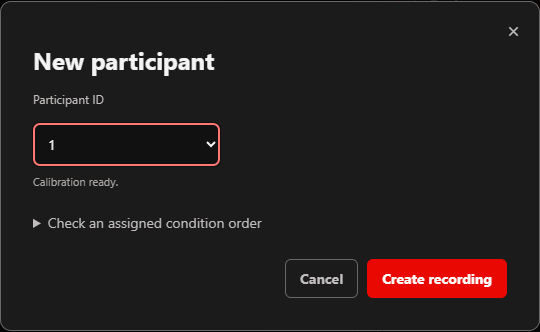
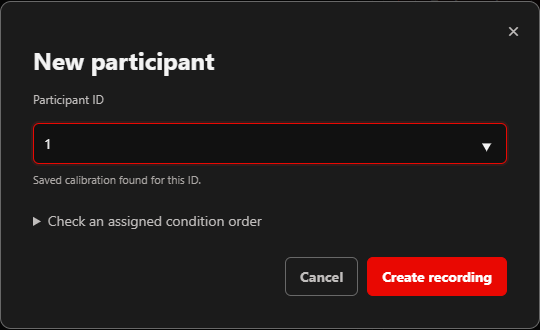
Start a participant with any numeric ID
The New participant dialog listed only IDs that had a calibration saved in
the Calibration Environment, and intake refused every other ID. On a station
with no saved profiles no session could start.

The ID is now typed (digits only, 0-999999; a partly numeric entry is still
refused). A saved calibration is optional: it is applied when present, and
otherwise the staged station settings apply and a session note says so. An
unreadable saved file no longer blocks intake either. Saved IDs remain as
suggestions in the field.

diff --git a/unity/Assets/StreamingAssets/administrator/app.js b/unity/Assets/StreamingAssets/administrator/app.js
@@ -274,7 +274,7 @@
     if (!raw) return { valid: true, message: 'Paste the ID and four condition codes from the assignment sheet.' };
     const [id, ...assignedOrder] = raw.toUpperCase().split(/[\s,;]+/);
     if (!/^[0-9]{1,6}$/.test(id) || String(Number(id)) !== participant)
-      return { valid: false, message: 'The row must start with the selected participant ID.' };
+      return { valid: false, message: 'The row must start with the participant ID entered above.' };
     if (assignedOrder.length !== 4 || new Set(assignedOrder).size !== 4 ||
         !assignedOrder.every(code => conditions.includes(code)))
       return { valid: false, message: 'Include each of the four condition codes once.' };
@@ -285,36 +285,42 @@
         : 'Assignment matches Settings.' };
   }
   let pickerSignature = '';
+  // The typed ID with leading zeros dropped, or '' unless it is 1–6 digits. A
+  // partly numeric entry such as "12x" is refused, never trimmed to a number.
+  function participantId() {
+    const typed = $('participantPicker').value.trim();
+    return /^[0-9]{1,6}$/.test(typed) ? String(Number(typed)) : '';
+  }
+  // Any whole number starts a recording. IDs saved in the Calibration Environment
+  // are offered as suggestions; a saved calibration is optional, never required.
   function updateCalibrationLookup() {
-    const picker = $('participantPicker');
     const profiles = state?.participantCalibrations || [];
     const signature = JSON.stringify(profiles);
     if (signature !== pickerSignature) {
-      const selected = picker.value;
-      picker.replaceChildren(new Option('Choose a participant ID', ''));
-      for (const profile of profiles) picker.add(new Option(String(profile.id), String(profile.id)));
-      picker.value = profiles.some(profile => String(profile.id) === selected) ? selected : '';
+      $('savedParticipantIds').replaceChildren(...profiles.map(profile => new Option(String(profile.id), String(profile.id))));
       pickerSignature = signature;
     }
-    const profile = profiles.find(entry => String(entry.id) === picker.value);
-    const available = !!profile && profile.available !== false && !state.calibrationDirectoryUnavailable;
-    $('calibrationStatus').textContent = state?.calibrationDirectoryUnavailable
-      ? 'The calibration folder could not be read. Check access and try again.'
-      : profiles.length === 0 ? 'No saved IDs. Save an ID in the calibration workspace or run PREPARE-REHEARSAL.cmd in the development package.'
-      : !profile ? 'Select the ID saved in the Calibration Environment.'
-      : !available ? 'This calibration cannot be read. Choose another ID or review the saved profile in the calibration workspace.'
+    const typed = $('participantPicker').value.trim(), id = participantId();
+    const folderUnavailable = !!state?.calibrationDirectoryUnavailable;
+    const profile = id ? profiles.find(entry => String(entry.id) === id) : undefined;
+    const available = !!profile && profile.available !== false && !folderUnavailable;
+    $('calibrationStatus').textContent = !typed ? 'Type the participant ID: a whole number from 0 to 999999.'
+      : !id ? 'Use digits only: a whole number from 0 to 999999.'
+      : folderUnavailable ? 'The saved calibration folder could not be read. The station settings will be used.'
+      : !profile ? 'No saved calibration is needed. The station settings will be used.'
+      : !available ? 'The saved calibration for this ID cannot be read. The station settings will be used instead.'
       : profile.screenMatches === false ? 'This ID was saved with different screen settings. The station screen will be used.'
-      : 'Calibration ready.';
-    $('calibrationStatus').classList.toggle('is-missing', !!state?.calibrationDirectoryUnavailable || (!!profile && !available));
+      : 'Saved calibration found for this ID.';
+    $('calibrationStatus').classList.toggle('is-missing', !!typed && (!id || folderUnavailable || (!!profile && !available)));
     $('profileSources').hidden = !available || !profile.revision;
     if (!$('profileSources').hidden) {
       const room = (state.roomRevision || 'Unavailable').replace(/^synthetic-room-([0-9a-f]{12})[0-9a-f]+$/, 'Station room $1');
       $('sourceRevisions').textContent = `participant-${profile.id}.json · revision ${profile.revision.slice(0, 12)}. Room revision · ${room}.`;
     }
-    const checked = readAssignment(picker.value);
+    const checked = readAssignment(id);
     $('assignmentStatus').textContent = checked.message;
     $('deviationField').hidden = !checked.differs;
-    $('createParticipant').disabled = submitting || !available || !checked.valid || state?.canStartParticipant !== true;
+    $('createParticipant').disabled = submitting || !id || !checked.valid || state?.canStartParticipant !== true;
   }
   function openDialog() {
     renderOrder();
@@ -379,7 +385,7 @@
   $('cancelDialog').addEventListener('click', closeDialog);
   $('assignedRow').addEventListener('input', () => { $('deviationReason').value = ''; updateCalibrationLookup(); });
   $('deviationReason').addEventListener('change', updateCalibrationLookup);
-  $('participantPicker').addEventListener('change', () => {
+  $('participantPicker').addEventListener('input', () => {
     $('deviationReason').value = '';
     $('startError').hidden = true;
     updateCalibrationLookup();
@@ -388,7 +394,7 @@
     event.preventDefault();
     updateCalibrationLookup();
     if ($('createParticipant').disabled) return;
-    const participant = $('participantPicker').value;
+    const participant = participantId();
     submitting = true;
     $('createParticipant').disabled = true;
     try {

diff --git a/unity/Assets/StreamingAssets/administrator/index.html b/unity/Assets/StreamingAssets/administrator/index.html
@@ -92,7 +92,8 @@
       <button type="button" class="close-btn" id="closeDialog" aria-label="Close participant entry">×</button>
       <h2 id="intakeTitle">New participant</h2>
       <label class="field-label" for="participantPicker">Participant ID</label>
-      <select id="participantPicker" required aria-describedby="calibrationStatus"><option value="">Choose a participant ID</option></select>
+      <input id="participantPicker" inputmode="numeric" autocomplete="off" maxlength="6" placeholder="Whole number, for example 12" list="savedParticipantIds" required aria-describedby="calibrationStatus">
+      <datalist id="savedParticipantIds"></datalist>
       <p id="calibrationStatus" class="subtle calibration-status" role="status"></p>
       <details id="profileSources" hidden><summary>Calibration sources</summary><p id="sourceRevisions" class="subtle"></p></details>
       <details id="assignmentCheck">

diff --git a/unity/Assets/ELTS/Operator/Tests/AdministratorStationTests.cs b/unity/Assets/ELTS/Operator/Tests/AdministratorStationTests.cs
@@ -153,9 +153,10 @@ namespace Elts.Operator.Tests
                 Assert.Throws<ArgumentOutOfRangeException>(()=>station.ApplyCommand(new JObject{["action"]="setActiveTargetCount",["count"]=31}));
                 station.ApplyCommand(new JObject{["action"]="setActiveTargetCount",["count"]=botLimit});
                 Assert.That((int)JObject.Parse(station.StateJson())["activeTargetCount"],Is.EqualTo(botLimit));
-                // Participant IDs are numeric and require a saved calibration; nothing starts otherwise.
+                // Participant IDs are numeric; nothing starts otherwise. A partly numeric ID is never trimmed to a number.
                 Assert.Throws<ArgumentException>(()=>station.ApplyCommand(new JObject{["action"]="startParticipant",["participant"]="station-test",["conditionOrder"]=order}));
-                Assert.Throws<FileNotFoundException>(()=>station.ApplyCommand(new JObject{["action"]="startParticipant",["participant"]="4199",["conditionOrder"]=order}));
+                Assert.Throws<ArgumentException>(()=>station.ApplyCommand(new JObject{["action"]="startParticipant",["participant"]="12x",["conditionOrder"]=order}));
+                Assert.Throws<ArgumentException>(()=>station.ApplyCommand(new JObject{["action"]="startParticipant",["participant"]="",["conditionOrder"]=order}));
                 Assert.That(session.Engine,Is.Null);
                 ParticipantCalibrationFixture.Save(session,4102,"Synthetic Test Alias",eye:new[]{0.01,-0.02,-0.09});
                 var saved=ParticipantCalibration.Load(session.CalibrationProfileDirectory,4102);
@@ -261,6 +262,43 @@ namespace Elts.Operator.Tests
                 var state=JObject.Parse(station.StateJson());Assert.That(state["blocks"].Count(),Is.EqualTo(4));
                 Assert.That(state["blocks"].All(row=>(string)row["status"]=="Completed"),Is.True);
                 File.WriteAllText(Path.GetFullPath(Path.Combine(Application.dataPath,"../../diagnostics/station-pipeline-run.txt")),run);
+            }
+            finally{UnityEngine.Object.DestroyImmediate(host);}
+        }
+
+        [UnityTest]
+        public IEnumerator ParticipantStartsWithoutAUsableSavedCalibration()
+        {
+            var host=new GameObject("Optional profile intake fixture");
+            var view=host.AddComponent<DevelopmentView>();var session=host.AddComponent<DevelopmentSessionPanel>();
+            var clock=new ManualSharedClock(DateTimeOffset.UtcNow);
+            typeof(DevelopmentSessionPanel).GetField("clock",BindingFlags.NonPublic|BindingFlags.Instance).SetValue(session,clock);
+            var station=host.AddComponent<DevelopmentTestStation>();station.OpenAdministratorAutomatically=false;station.Controls=new Input();
+            try
+            {
+                for(int i=0;i<5;i++)yield return null;
+                string stagedCalibration=view.Configuration.Rig.CalibrationId;
+                var stagedEye=view.Configuration.Rig.HeadEyeOffsetM;
+                Directory.CreateDirectory(session.CalibrationProfileDirectory);
+                // 4198 has nothing saved; 4197 has a file that is not a calibration.
+                File.Delete(Path.Combine(session.CalibrationProfileDirectory,ParticipantCalibration.FileNameFor(4198)));
+                File.WriteAllText(Path.Combine(session.CalibrationProfileDirectory,ParticipantCalibration.FileNameFor(4197)),"{ not a calibration");
+                foreach(var (id,note) in new[]{("4198","no saved profile for this ID"),("4197","could not be read")})
+                {
+                    float limit=Time.realtimeSinceStartup+30;
+                    while(!session.StationCanStartParticipant && Time.realtimeSinceStartup<limit)yield return null;
+                    station.ApplyCommand(new JObject{["action"]="startParticipant",["participant"]=id});
+                    Assert.That(session.StationParticipant,Is.EqualTo(id));
+                    Assert.That(view.Configuration.Rig.CalibrationId,Is.EqualTo(stagedCalibration),"Station settings apply without a usable profile");
+                    Assert.That(view.Configuration.Rig.HeadEyeOffsetM,Is.EqualTo(stagedEye));
+                    while(session.Engine?.State!=SessionState.Calibration && Time.realtimeSinceStartup<limit)
+                    {clock.Advance(TimeSpan.FromSeconds(.1));yield return null;}
+                    Assert.That(session.Engine?.State,Is.EqualTo(SessionState.Calibration),session.StationMessage);
+                    string run=session.StationRecordingPath;
+                    session.StationAbort();yield return null;
+                    yield return WaitForSave(session);
+                    Assert.That(File.ReadAllText(Path.Combine(run,"events.ndjson")),Does.Contain(note),"The recording says which calibration applied");
+                }
             }
             finally{UnityEngine.Object.DestroyImmediate(host);}
         }

diff --git a/unity/Assets/ELTS/Operator/DevelopmentStationSession.cs b/unity/Assets/ELTS/Operator/DevelopmentStationSession.cs
@@ -26,6 +26,11 @@ namespace Elts.Operator
         private bool stationScreenDiffers;
         private const string ScreenDiffersMessage="The saved screen measurements differ from this ELTS build; " +
             "the build's screen is used. Restart START-ELTS to apply the latest saved screen.";
+        /// <summary>Why a saved profile for this ID was not used; empty when none is saved or it was applied.</summary>
+        private string stationCalibrationProblem = "";
+        // Session notes are limited to 256 characters; keep these short.
+        private const string NoProfileMessage="Calibration: no saved profile for this ID; station settings used.";
+        private const string UnreadableProfileMessage="Calibration: the saved profile for this ID could not be read; station settings used.";
         // One visit spans the first recording and every repeat or continuation folder.
         private string stationVisitId = "";
         private double stationStartedAt;
@@ -128,9 +133,11 @@ namespace Elts.Operator
         }
 
         /// <summary>
-        /// Starts a participant by numeric ID and applies the calibration saved for
-        /// that ID in the Calibration Environment. Nothing changes if the ID is not
-        /// numeric or no valid calibration is saved for it.
+        /// Starts a participant by numeric ID. Any whole number is accepted; nothing
+        /// changes if the ID is not numeric. A calibration saved for that ID in the
+        /// Calibration Environment is optional: when one is saved and readable its
+        /// offsets apply, otherwise the staged station offsets apply and the
+        /// walkthrough calibrates the participant. The recording says which.
         /// </summary>
         public void StationStartParticipant(string participant, IEnumerable<string> order, string? assignedId = null, string[]? assignment = null, string deviation = "")
         {
@@ -150,10 +157,13 @@ namespace Elts.Operator
                     throw new ArgumentException("Review the assignment and choose a reason for a different order.");
             }
             else if (assignedId != null || deviation.Length > 0) throw new ArgumentException("Assignment row is incomplete.");
-            var calibration=ParticipantCalibration.Load(CalibrationProfileDirectory,id);
-            stationScreenDiffers=!calibration.ScreenMatches(view.Configuration.Rig);
-            view.ApplyParticipantCalibration(calibration);
+            var calibration=ParticipantCalibration.LoadIfSaved(CalibrationProfileDirectory,id,out string profileProblem);
+            // Without a saved profile the previous participant's offsets must not carry over.
+            view.ClearParticipantCalibration();
+            stationScreenDiffers=calibration!=null && !calibration.ScreenMatches(view.Configuration.Rig);
+            if(calibration!=null)view.ApplyParticipantCalibration(calibration);
             stationCalibration=calibration;
+            stationCalibrationProblem=profileProblem;
             // Live tracking starts every participant from the station fit, not the last shooter's zero.
             ResetLiveForParticipant();
             assignedOrder=assignment?.ToArray(); orderDeviation=deviation;
@@ -186,10 +196,13 @@ namespace Elts.Operator
                         if(stationCalibration!=null)
                             RecordSessionDetail("Calibration: "+stationCalibration.FileName+" · SHA-256 "+stationCalibration.Sha256+
                                 " · synthetic, not measured.");
+                        else
+                            RecordSessionDetail(stationCalibrationProblem.Length>0 ? UnreadableProfileMessage : NoProfileMessage);
                         if(stationScreenDiffers)RecordSessionDetail(ScreenDiffersMessage);
                         AdvanceWithCalibration();
                         stationPreparing=false;
-                        lastMessage="Participant ready. Begin the tutorial / walkthrough."+(stationScreenDiffers?" "+ScreenDiffersMessage:"");
+                        lastMessage="Participant ready. Begin the tutorial / walkthrough."+(stationScreenDiffers?" "+ScreenDiffersMessage:"")+
+                            (stationCalibrationProblem.Length>0?" "+UnreadableProfileMessage:"");
                     }
                     if(engine?.State==SessionState.BlockReady)
                     { stationPreparing=false;lastMessage="Ready. Arm the test when the participant is ready."; }

diff --git a/unity/Assets/ELTS/Config/ParticipantCalibration.cs b/unity/Assets/ELTS/Config/ParticipantCalibration.cs
@@ -80,7 +80,21 @@ namespace Elts.Config
             return Parse(File.ReadAllBytes(path), id);
         }
 
-        /// <summary>Cache file validation for the picker. Intake always reloads the chosen file.</summary>
+        /// <summary>
+        /// A saved profile is optional at intake. Returns null when none is saved for
+        /// this ID (<paramref name="problem"/> is empty) or when the saved file cannot
+        /// be used (<paramref name="problem"/> says why, for the recording).
+        /// </summary>
+        public static ParticipantCalibration? LoadIfSaved(string directory, int id, out string problem)
+        {
+            problem = "";
+            if (!File.Exists(Path.Combine(directory, FileNameFor(id)))) return null;
+            try { return Load(directory, id); }
+            catch (Exception error) when (error is ArgumentException || error is IOException || error is UnauthorizedAccessException)
+            { problem = error.Message; return null; }
+        }
+
+        /// <summary>Cache file validation for the ID suggestions. Intake always reloads the chosen file.</summary>
         public sealed class Inventory
         {
             private Dictionary<string,(long Length, long Changed, ParticipantCalibration? Profile)> cached = new Dictionary<string,(long,long,ParticipantCalibration?)>();

diff --git a/tools/runtime-tests/ConfigChecks.cs b/tools/runtime-tests/ConfigChecks.cs
@@ -255,6 +255,11 @@ internal static class ConfigChecks
             try { ParticipantCalibration.Load(directory, 9); }
             catch (FileNotFoundException exception) { missing = exception.Message.StartsWith("No saved calibration for participant 9", StringComparison.Ordinal); }
             Assert(missing, "missing participant calibration explains what to do");
+            // Intake treats a saved profile as optional: any numeric ID can start a recording.
+            Assert(ParticipantCalibration.LoadIfSaved(directory, 9, out string absentProblem) == null && absentProblem == "", "an ID with no saved calibration starts without one");
+            Assert(ParticipantCalibration.LoadIfSaved(directory, 12, out string savedProblem)?.ParticipantId == 12 && savedProblem == "", "a saved calibration is still applied");
+            File.WriteAllText(Path.Combine(directory, "participant-8.json"), "{ not a calibration");
+            Assert(ParticipantCalibration.LoadIfSaved(directory, 8, out string unreadableProblem) == null && unreadableProblem.Length > 0, "an unreadable saved calibration is reported, not required");
         }
         finally { Directory.Delete(directory, true); }
 

diff --git a/unity/Assets/ELTS/Operator/DevelopmentCollection.cs b/unity/Assets/ELTS/Operator/DevelopmentCollection.cs
@@ -190,7 +190,7 @@ namespace Elts.Operator
             // again, and the old visit would still be eligible for a repeat.
             recording?.Dispose(); recording = null; engine = null; scenario = null;
             stationParticipant = stationVisitId = runId = "";
-            stationStartedAt = 0; assignedOrder = null; orderDeviation = ""; stationCalibration = null; stationScreenDiffers = false;
+            stationStartedAt = 0; assignedOrder = null; orderDeviation = ""; stationCalibration = null; stationScreenDiffers = false; stationCalibrationProblem = "";
             stationCheckpoints.Clear(); stationCheckpointId = "";
             stationAutomaticallyArmedBlock = null; stationSaveStatus = "No recording yet.";
             setupPending = closing = TestArmed = false;

diff --git a/docs/operator/user-guide.md b/docs/operator/user-guide.md
@@ -52,9 +52,14 @@ Close Settings using **×**. You can return to Settings during a session for dis
 
 ## 3. Create the participant recording
 
-Click **New participant** and choose the saved **Participant ID** from the list. ELTS shows whether its calibration is ready. Open **Calibration sources** to check the profile and room revisions. If the ID is missing, add it in the packaged rehearsal with **ADD-REHEARSAL-ID.cmd**. From source, open **START-CALIBRATION.cmd**, choose **Save calibration**, and use the digit picker or **Use next unused ID**. Click **Create recording** and wait for preparation to finish.
+Click **New participant** and type the **Participant ID**: any whole number from 0 to 999999. Nothing has to be saved beforehand. Click **Create recording** and wait for preparation to finish.
 
-![Participant entry with the numeric ID picker and Create recording button.](images/user-guide/texas-tech/04-participant.png)
+A calibration saved under that ID in the calibration workspace is optional. IDs that have one are offered as suggestions while you type. If one is saved, ELTS applies it and **Calibration sources** shows the profile and room revisions. If none is saved, or the saved file cannot be read, ELTS uses the station settings and the recording says so.
+
+![Participant entry with the Participant ID field and Create recording button.](images/user-guide/texas-tech/04-participant.png)
+
+> [!NOTE]
+> The 2026-11-18 rehearsal ZIP has the earlier entry, a list of saved IDs only. In that package, add an ID with **ADD-REHEARSAL-ID.cmd** first.
 
 If you have an assignment sheet, open **Check an assigned condition order** and paste the row containing the ID and four codes. ELTS compares the row with Settings. Correct a mismatch or choose a reason to keep the configured order. The recording retains both orders.
 

diff --git a/docs/developer/modules/operator-dashboard.md b/docs/developer/modules/operator-dashboard.md
@@ -14,11 +14,14 @@ See the [Texas Tech visual identity guide](https://www.ttu.edu/brand/visual-iden
 The `ELTSDesktop` player opens a browser administrator dashboard and a separate
 participant game window. A fresh station opens the dashboard without forcing
 participant entry. First use the gear icon to arrange tests and configure timing;
-then choose **New participant** and select the participant ID from the numeric picker.
-The inventory refreshes in the background and revalidates changed files. An unreadable
-calibration shows a recovery action. A screen mismatch is visible before recording.
-Intake revalidates the selected file and applies its participant settings. The run
-retains its pseudonymous ID, visit, calibration source digest and applied settings.
+then choose **New participant** and type the participant ID (digits only, 0–999999;
+a partly numeric entry is refused, never trimmed). Any ID starts a recording. A
+calibration saved under that ID is optional: the inventory of saved IDs refreshes in
+the background, revalidates changed files and is offered as suggestions. An unreadable
+calibration or a screen mismatch is shown before recording. Intake reloads a saved
+file and applies its participant settings; with none saved, or an unreadable one, the
+staged station settings apply and a session note says so. The run
+retains its pseudonymous ID, visit, calibration source digest (when one applied) and applied settings.
 Reloading the dashboard during a session does not create another recording.
 
 The gear icon opens settings for condition order, windowed/fullscreen mode, preview

diff --git a/docs/operator/troubleshooting.md b/docs/operator/troubleshooting.md
@@ -281,8 +281,8 @@ Workspace layout for the embedded Unity dashboard is `operator-workspace-v1.json
 | Message | Meaning |
 | --- | --- |
 | `Finish the current participant first.` | A session is still open. |
-| No saved IDs | Save a numbered participant in the Calibration Environment. |
-| This calibration cannot be read | Inspect or replace the selected calibration and reopen intake. |
+| `Enter the participant ID as a whole number from 0 to 999999.` | The ID had letters, spaces or more than six digits. A saved calibration is not required. |
+| The saved calibration for this ID cannot be read | A notice at intake, not a rejection. The session starts on the station settings; inspect or replace the saved file if it was meant to apply. |
 | `The participant changed. Review the current session and try again.` | Command `runId` does not match the open station, and the action is not a data action. |
 | `Order must be a permutation of the four conditions.` | `SessionPlan` requires each of `WE_MT`, `NE_MT`, `WE_FT`, and `NE_FT` once. |
 | `At least 2 GB free disk space is required.` | Free space on the drive of the resolved data root is under 2 GiB (`MinimumDiskBytes`, and the same text in `SessionReadinessReport`). |

diff --git a/Calibration Environment/README.md b/Calibration Environment/README.md
@@ -316,9 +316,10 @@ it is not a scored shot or a simulated physical projectile.
   Select another ID to save. Profiles are ignored by Git.
 - When an operator starts that participant ID in the ELTS dashboard, ELTS reads
   this file and applies the participant's tracker-local
-  eye, muzzle and bore settings. No ELTS restart is needed after saving. ELTS
-  will not start an ID that has no saved calibration. The recording notes the
-  file name, SHA-256 and the settings used for that visit.
+  eye, muzzle and bore settings. No ELTS restart is needed after saving. A saved
+  calibration is optional: ELTS starts any numeric ID, and uses the station
+  settings when none is saved or the file cannot be read. The recording notes the
+  file name and SHA-256 when one applied, and the settings used for that visit.
 - The station stores each browser's unsaved draft under `profiles/`. The browser
   keeps its opaque draft ID. Refresh restores the draft and reconnects live input;
   choose Manual preview explicitly for hardware-free use.

diff --git a/README.md b/README.md
@@ -143,7 +143,7 @@ To reuse a setup, type a **Preset name** under **Saved setups** → **Save setup
 
 ### 3 · Create the participant recording
 
-Click **New participant**, choose a saved **Participant ID**, then click **Create recording**. In the Windows package, use **ADD-REHEARSAL-ID.cmd** to create another fictional ID. From source, use **START-CALIBRATION.cmd** to save the calibration under a numeric ID. The same ID groups that participant’s visits.
+Click **New participant**, type the **Participant ID** (any whole number from 0 to 999999), then click **Create recording**. Nothing has to be saved under the ID first; a calibration saved for it in the calibration workspace is applied when present. The same ID groups that participant’s visits. The 2026-11-18 Windows package still lists saved IDs only; there, use **ADD-REHEARSAL-ID.cmd** to create another fictional ID.
 
 ![Participant entry with the numeric ID picker and Create recording button.](docs/operator/images/user-guide/texas-tech/04-participant.png)
 
